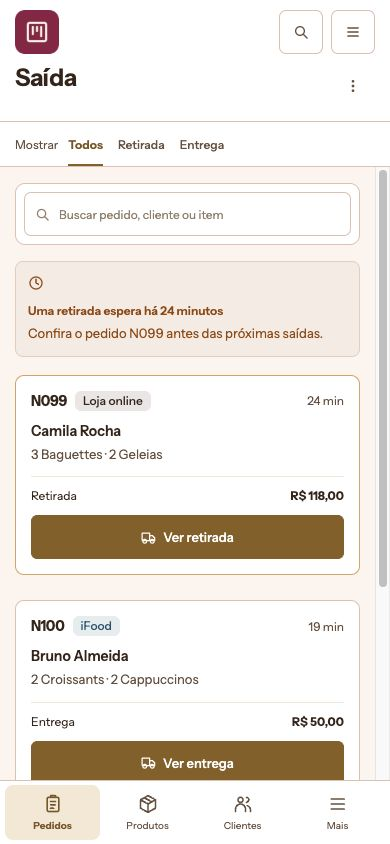
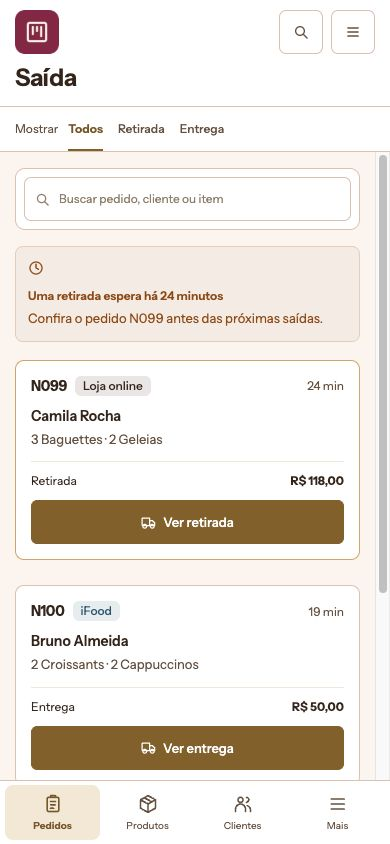
docs: refine preview action scopes mobile space and scrolling tabs

diff --git a/docs/previews/navigation-2026-10-29/preview.js b/docs/previews/navigation-2026-10-29/preview.js
@@ -139,7 +139,7 @@ const QUICK_LINKS={
 function renderQuick(){const links=QUICK_LINKS[state.app];const outside=!links.some(item=>item.matches.includes(state.view));$('#quicknav').hidden=state.compare||state.central;$('#quicknav').innerHTML=links.map(item=>`<button data-view="${item.view}" class="${item.matches.includes(state.view)?'active':''}" ${item.matches.includes(state.view)?'aria-current="true"':''} aria-label="${item.label}">${icon(item.symbol)}<span>${item.label}</span></button>`).join('')+`<button data-action="drawer" class="${outside?'active':''}" aria-label="Mais assuntos">${icon('menu')}<span>Mais</span></button>`;}
 
 function renderCentral(){const items=[['gestor','Gestor','Pedidos, produtos, clientes e operação','orders'],['compras','Compras','Reposição, recebimentos e estoque','cart']];$('#central').innerHTML=`<header class="central-head"><span class="central-mark">s</span><div><p class="section-label">Shopman · Loja exemplo</p><h1>Central de apps</h1><p>Olá, Maria. Por onde vamos continuar?</p></div><button class="button" data-action="resume">${icon('left')}Voltar a ${applications[state.app].label}</button></header><div class="central-body"><section class="panel"><div class="panel-head"><div><h2>Precisa de você</h2><p>Abra a tarefa no contexto certo.</p></div>${tag('2 tarefas','amber')}</div><div class="list-row"><span class="list-icon">${icon('truck')}</span><div><strong>A retirada N099 está esperando</strong><small>Gestor · Saída dos pedidos</small></div><button class="text-link end" data-action="jump:gestor:exit">Ver saída ${icon('arrow')}</button></div><div class="list-row"><span class="list-icon">${icon('warning')}</span><div><strong>Uma diferença na nota 004821</strong><small>Compras · Conferência de recebimento</small></div><button class="text-link end" data-action="jump:compras:divergences">Conferir ${icon('arrow')}</button></div></section><h2 class="central-section">Seus apps</h2><div class="central-apps">${items.map(a=>`<button class="central-app-card" data-app="${a[0]}"><span class="list-icon">${icon(a[3])}</span><strong>${a[1]}</strong><p>${a[2]}</p><span class="text-link">Continuar de onde parou ${icon('arrow')}</span></button>`).join('')}</div><p class="subtle">Esta rodada permite explorar Gestor e Compras. Os demais apps continuam fora da prévia.</p></div>`;}
-function crossApp(app,view,query,label,dialog){state.trail={app:state.app,view:state.view,search:state.search,label,dialog};if($('#detail').open)$('#detail').close();state.lastViews[state.app]=state.view;state.app=app;route(view);state.search=query;renderContent();renderHead();}
+function crossApp(app,view,query,label,dialog){rememberDestination();state.trail={app:state.app,view:state.view,search:state.search,label,dialog};if($('#detail').open)$('#detail').close();state.lastViews[state.app]=state.view;state.app=app;route(view,true,false);state.search=query;renderContent();renderHead();}
 function currentGroup(){return applications[state.app].groups.find(g=>g.children.some(c=>c[0]===state.view));}
 function href(overrides={}){
   const next={toolsFixed:state.toolsFixed,pageMenu:state.pageMenu,compareTools:state.compareTools,compareDevice:state.compareDevice,compact:state.compact,hidden:state.hidden,secondary:state.secondary,adaptive:state.adaptive,display:state.display,density:state.density,app:state.app,variant:state.variant,view:state.view,compare:state.compare,clean:state.clean,embedded:state.embedded,central:state.central,local:state.localPlacement,quick:state.desktopQuick,dock:state.desktopDock,...overrides};
@@ -151,13 +151,17 @@ function href(overrides={}){
   if(next.clean)q.set('clean','1');if(next.compare)q.set('compare','1');if(next.embedded)q.set('embedded','1');if(next.central)q.set('screen','central');
   return `?${q}`;
 }
-function route(view, notify=true){
+const destinationStates=new Map();
+const destinationFields=['search','filter','page','collection','sort','display','density'];
+function rememberDestination(){destinationStates.set(state.app+':'+state.view,{...Object.fromEntries(destinationFields.map(k=>[k,state[k]])),scroll:$('#content').scrollTop});}
+function route(view, notify=true, remember=true){
+  if(remember)rememberDestination();
   $('#toast').hidden=true;
   if(!applications[state.app].groups.some(g=>g.children.some(c=>c[0]===view)))return;
-  state.central=false;state.view=view;state.search='';state.filter='all';state.page=1;state.drawer=false;state.drawerGroup=null;state.lastViews[state.app]=view;
+  state.central=false;state.view=view;const saved=destinationStates.get(state.app+':'+view);state.search='';state.filter='all';state.page=1;if(saved)destinationFields.forEach(k=>state[k]=saved[k]);state.drawer=false;state.drawerGroup=null;state.lastViews[state.app]=view;
   state.closed=new Set(applications[state.app].groups.filter(g=>g.id!==currentGroup().id).map(g=>g.id));
   if(state.compare&&$$('#comparison iframe').length){$('#compare-destination').value=view;$$('#comparison iframe').forEach(f=>f.contentWindow.postMessage({type:'shopman-preview-set-route',view},location.origin));history.replaceState(null,'',href());return;}
-  render();history[notify?'pushState':'replaceState'](null,'',href());
+  render();$('#content').scrollTop=saved?.scroll||0;history[notify?'pushState':'replaceState'](null,'',href());
   if(state.embedded&&notify)parent.postMessage({type:'shopman-preview-route',app:state.app,view:state.view},location.origin);
 }
 function toast(message,tone='success'){
@@ -216,7 +220,7 @@ function renderSupportBars(){
   if(['receiving','divergences'].includes(state.view))filters=filterButton('Todos os itens','all')+filterButton('Pendentes','pending')+filterButton('Conferidos','checked');
   if(state.view==='materials')filters=filterButton('Todos os insumos','all')+filterButton('Reposição urgente','urgent');
   const recuts=filters?`<div class="local-controls"><span class="local-label">Mostrar</span><div class="local-options" role="group" aria-label="Recorte do conteúdo">${filters}</div></div>`:'';
-  top.innerHTML=state.localPlacement==='top'?recuts:'';top.hidden=!top.innerHTML;
+  top.innerHTML=state.localPlacement==='top'?recuts:'';top.hidden=!top.innerHTML;requestAnimationFrame(()=>{const active=$('[aria-pressed=true]',top);if(active)active.scrollIntoView({block:'nearest',inline:'nearest',behavior:'instant'});});
   let summary='';
   if(['catalog','channel-catalog'].includes(state.view)){
     const list=catalogList();
@@ -239,9 +243,9 @@ function renderHead(){
   const group=currentGroup(),app=applications[state.app],info=viewInfo[state.view];
   const secondaryControl=state.variant==='double'&&group.children.length>1?`<button class="pill-button desktop-control" data-action="secondary" aria-label="${state.secondary?'Recolher':'Mostrar'} opções de ${group.label}">${icon('panel')}${state.secondary?'Recolher opções':`Opções de ${group.label}`}</button>`:'';
   if(state.adaptive){
-    const hasOptions=(pageActions()&&!pageActions().includes('gold'))||FLOW_CATALOG.some(f=>f.app===state.app&&f.view===state.view);
+    const hasOptions=(pageActions()&&!pageActions().includes('gold'))||Boolean(pageFlowOptions());
     const options=hasOptions?`<button class="icon-button mobile-page-options page-flow-options" data-action="page-options" aria-label="Mais opções da página" aria-haspopup="dialog">${icon('dots')}</button>`:'';
-    $('#pagehead').innerHTML=`<div class="head-top suite-header"><button class="icon-button current-app-home" data-action="central" aria-label="${app.label}: voltar à Central de apps" title="${app.label}: Central de apps">${appMark(state.app)}</button><button class="button desktop-control navigation-manager" data-action="nav-controls" aria-label="Ajustar menus laterais" aria-haspopup="dialog">${icon('panel')}Menus laterais</button><div class="head-spacer"></div><button class="icon-button" data-action="search-suite" aria-label="Buscar destino na suíte">${icon('search')}</button><button class="icon-button mobile-menu" data-action="drawer" aria-label="Abrir navegação">${icon('menu')}</button>${state.pageMenu==='header'?options:''}</div><div class="heading-row"><div class="page-title-group"><h1>${info[0]}</h1></div><div class="page-actions">${pageActions()}${desktopTaskAction()}</div>${state.pageMenu==='title'?options:''}</div>${state.trail?`<div class="return-context"><button data-action="return-context">${icon('left')}Voltar a ${esc(state.trail.label)}</button></div>`:''}`;return;
+    $('#pagehead').innerHTML=`<div class="head-top suite-header"><button class="icon-button current-app-home" data-action="central" aria-label="${app.label}: voltar à Central de apps" title="${app.label}: Central de apps">${appMark(state.app)}</button><button class="button desktop-control navigation-manager" data-action="nav-controls" aria-label="Ajustar menus laterais" aria-haspopup="dialog">${icon('panel')}Menus laterais</button><div class="head-spacer"></div><button class="icon-button" data-action="search-suite" aria-label="Buscar páginas e apps">${icon('search')}</button><button class="icon-button mobile-menu" data-action="drawer" aria-label="Abrir navegação">${icon('menu')}</button>${state.pageMenu==='header'?options:''}</div><div class="heading-row"><div class="page-title-group"><h1>${info[0]}</h1></div><div class="page-actions">${pageActions()}${desktopTaskAction()}</div>${state.pageMenu==='title'?options:''}</div>${state.trail?`<div class="return-context"><button data-action="return-context">${icon('left')}Voltar a ${esc(state.trail.label)}</button></div>`:''}`;return;
   }
   $('#pagehead').innerHTML=`<div class="head-top"><button class="icon-button mobile-menu" data-action="drawer" aria-label="Abrir navegação">${icon('menu')}</button><button class="icon-button desktop-control" data-action="compact" aria-label="${state.compact?'Expandir':'Compactar'} barra principal">${icon('panel')}</button><button class="app-switch" data-action="apps" aria-label="${app.label}: trocar app ou voltar à Central">${icon(app.symbol)}<span>${app.label}</span>${icon('down')}</button><div class="breadcrumb"><span class="desktop-breadcrumb">${app.label}</span>${icon('arrow')}<span>${group.label}</span>${group.children.length>1?icon('arrow')+`<span>${group.children.find(c=>c[0]===state.view)[1]}</span>`:''}</div>${group.children.length>1?`<div class="context-switch"><button class="button" data-action="context-mobile" aria-label="Opções de ${group.label}"><span>${group.label}</span>${icon('down')}</button></div>`:''}<div class="head-spacer"></div><div class="head-utility">${secondaryControl}<button class="icon-button desktop-control" data-action="hide" aria-label="${state.hidden?'Mostrar':'Ocultar'} barra principal">${icon('menu')}</button><button class="icon-button" data-action="search-suite" aria-label="Buscar na suíte">${icon('search')}</button></div></div><div class="heading-row"><div><h1>${info[0]}</h1><p>${info[1]}</p></div><div class="page-actions">${pageActions()}${desktopTaskAction()}</div></div>${state.trail?`<div class="return-context"><button data-action="return-context">${icon('left')}Voltar a ${esc(state.trail.label)}</button><span>Contexto de origem preservado</span></div>`:''}`;
 }
@@ -290,7 +294,7 @@ function receiptContent(divergences=false){
   const list=receipt.filter(r=>(!divergences||r.expected!==r.received)&&matching(r.name+' '+r.sku)&&(state.filter==='all'||state.filter==='pending'&&!r.resolved||state.filter==='checked'&&r.resolved));
   const rows=list.map(r=>`<tr><td>${record(r.name,r.sku,'box','receipt-item:'+r.id)}</td><td>${r.unit}</td><td class="numeric">${r.expected}</td><td class="numeric">${r.received}</td><td>${tag(r.expected===r.received?'Conferido':r.resolved?'Diferença resolvida':`Faltam ${r.expected-r.received} ${r.unit}`,r.expected===r.received?'green':r.resolved?'blue':'amber')}</td><td>${button(r.resolved?'Ver item':'Resolver diferença','receipt-item:'+r.id,'arrow','small')}</td></tr>`).join('');
   const total=receipt.reduce((s,r)=>s+r.received*r.cost,0);
-  return `<div class="receipt-summary"><span class="list-icon">${icon('file')}</span><div><h2>Nota 004821</h2><p>Distribuidora Aurora · Recebida hoje, às 13h40</p></div><div class="end">${tag(pending?'Conferência em aberto':'Conferência concluída',pending?'amber':'green',true)}</div></div>${pending?`<div class="banner">${icon('warning')}<div><strong>Manteiga: faltam 2 kg</strong><p>Na nota: 10 kg. Recebido: 8 kg.</p></div></div>`:''}<div class="split"><div><div class="toolbar">${search('Buscar item nesta nota')}${divergences?button('Ver todos os itens','receiving-all','file','small'):button('Ver divergências','receiving-divergences','warning','small')}</div><div class="panel">${table(['Insumo','Unidade de compra','Na nota','Recebido','Conferência',''],rows,divergences?'Divergências da nota':'Itens da nota de recebimento')}</div>${list.some(r=>r.id==='farinha')?'<p class="subtle">Farinha: cada saco de 25 kg recebido representa 25 kg no estoque.</p>':''}</div><aside class="panel summary-box"><h2>Resumo da entrada</h2><div class="fact"><span>Itens na nota</span><strong>3</strong></div><div class="fact"><span>Diferenças pendentes</span><strong>${pending}</strong></div><div class="fact total"><span>Valor recebido</span><strong>${money(total)}</strong></div>${pending?'<p class="subtle">Resolva a diferença antes de confirmar.</p>':''}<p class="subtle">A entrada é confirmada depois da conferência. A nota permanece disponível para consulta.</p></aside></div>`;
+  return `<div class="receipt-summary"><span class="list-icon">${icon('file')}</span><div><h2>Nota 004821</h2><p>Distribuidora Aurora · Hoje, 13h40</p></div><div class="end">${tag(pending?'Conferência em aberto':'Conferência concluída',pending?'amber':'green',true)}</div></div>${pending?`<div class="banner">${icon('warning')}<div><strong>Manteiga: faltam 2 kg</strong><p>Nota: 10 kg · Recebido: 8 kg</p></div></div>`:''}<div class="split"><div><div class="toolbar">${search('Buscar item nesta nota')}</div><div class="panel">${table(['Insumo','Unidade de compra','Na nota','Recebido','Conferência',''],rows,divergences?'Divergências da nota':'Itens da nota de recebimento')}</div>${list.some(r=>r.id==='farinha')?'<p class="subtle">Farinha: cada saco de 25 kg recebido representa 25 kg no estoque.</p>':''}</div><aside class="panel summary-box"><h2>Resumo da entrada</h2><div class="fact"><span>Itens na nota</span><strong>3</strong></div><div class="fact"><span>Diferenças pendentes</span><strong>${pending}</strong></div><div class="fact total"><span>Valor recebido</span><strong>${money(total)}</strong></div>${pending?'<p class="subtle">Resolva a diferença antes de confirmar.</p>':''}<p class="subtle">A entrada é confirmada depois da conferência. A nota permanece disponível para consulta.</p></aside></div>`;
 }
 function materialsContent(costs=false){
   const list=materials.filter(m=>matching(m.name+' '+m.id+' '+m.supplier)&&(state.filter!=='urgent'||m.urgent));
@@ -419,8 +423,8 @@ function act(action){
     case 'compare':state.compare=!state.compare;state.embedded=false;history.replaceState(null,'',href());render();break;
     case 'context-mobile':state.drawer=true;state.drawerGroup=currentGroup().id;renderNavigation();$('a,button',$('#primary'))?.focus();break;
     case 'drawer-back':state.drawerGroup=null;renderNavigation();break;
-    case 'central':if($('#detail').open)$('#detail').close();state.drawer=false;state.central=true;state.compare=false;history.pushState(null,'',href());render();break;
-    case 'resume':state.central=false;history.pushState(null,'',href());render();break;
+    case 'central':rememberDestination();if($('#detail').open)$('#detail').close();state.drawer=false;state.central=true;state.compare=false;history.pushState(null,'',href());render();break;
+    case 'resume':{state.central=false;history.pushState(null,'',href());render();$('#content').scrollTop=destinationStates.get(state.app+':'+state.view)?.scroll||0;break;}
     case 'return-context':{const t=state.trail;state.trail=null;state.app=t.app;route(t.view);state.search=t.search;renderContent();if(t.dialog)act(t.dialog);break;}
     case 'cross-product':crossApp('compras','materials','GEL','Produtos · Geleia de frutas vermelhas','product:GEL');break;
     case 'cross-material':crossApp('gestor','catalog','GEL','Insumos · Geleia de frutas vermelhas','material:GEL');break;
@@ -433,9 +437,9 @@ function act(action){
     case 'apps':openDialog('Central e apps',`<p>Abra outro app ou volte à Central. O último destino de cada app fica preservado nesta sessão.</p><div class="stack">${button('Central de apps','central','grid')}${button('Gestor · '+viewInfo[state.lastViews.gestor][0],'switch:gestor','orders')}${button('Compras · '+viewInfo[state.lastViews.compras][0],'switch:compras','cart')}</div>${previewNote}`);break;
     case 'switch':$('#detail').close();changeApp(id);break;
     case 'alerts':openDialog('O que pede atenção',`<div class="stack"><button class="button" data-action="jump:gestor:exit">Retirada N099 esperando há 24 minutos ${icon('arrow')}</button><button class="button" data-action="jump:compras:divergences">Diferença no recebimento da nota 004821 ${icon('arrow')}</button><button class="button" data-action="jump:compras:replenishment">Farinha para menos de um dia ${icon('arrow')}</button></div>${previewNote}`);break;
-    case 'jump':if($('#detail').open)$('#detail').close();state.lastViews[state.app]=state.view;state.app=parts[0];route(parts[1]);break;
-    case 'search-suite':openDialog('Buscar no Shopman',`<label class="suite-search-field">${icon('search')}<input id="suite-search" type="search" aria-label="Buscar página ou assunto" placeholder="Página, assunto ou app" autocomplete="off"></label><div id="suite-results">${Object.entries(applications).map(([appId,app])=>`<section class="suite-result-group"><h3>${app.label}</h3>${app.groups.flatMap(g=>g.children.map(c=>`<button class="suite-result" data-action="jump:${appId}:${c[0]}"><span class="suite-result-icon">${icon(c[2])}</span><span><strong>${c[1]}</strong><small>${g.label}</small></span>${icon('arrow')}</button>`)).join('')}</section>`).join('')}</div><p id="suite-empty" class="search-empty" hidden>Nenhuma página encontrada. Tente outro assunto.</p>`,'','search');$('#suite-search').focus();break;
-    case 'page-options':openOptions(pageActions()+pageFlowOptions());break;
+    case 'jump':rememberDestination();if($('#detail').open)$('#detail').close();state.lastViews[state.app]=state.view;state.app=parts[0];route(parts[1],true,false);break;
+    case 'search-suite':openDialog('Buscar páginas e apps',`<label class="suite-search-field">${icon('search')}<input id="suite-search" type="search" aria-label="Buscar página ou assunto" placeholder="Página, assunto ou app" autocomplete="off"></label><div id="suite-results">${Object.entries(applications).map(([appId,app])=>`<section class="suite-result-group"><h3>${app.label}</h3>${app.groups.flatMap(g=>g.children.map(c=>`<button class="suite-result" data-action="jump:${appId}:${c[0]}"><span class="suite-result-icon">${icon(c[2])}</span><span><strong>${c[1]}</strong><small>${g.label}</small></span>${icon('arrow')}</button>`)).join('')}</section>`).join('')}</div><p id="suite-empty" class="search-empty" hidden>Nenhuma página encontrada. Tente outro assunto.</p>`,'','search');$('#suite-search').focus();break;
+    case 'page-options':activeFlowContext={};openOptions((pageActions().includes('gold')?'':pageActions())+pageFlowOptions());break;
     case 'display':state.display=id;history.replaceState(null,'',href());renderContent();break;
     case 'density':state.density=id;$('#options-popover').hidePopover();history.replaceState(null,'',href());renderContent();break;
     case 'list-options':openOptions(`${state.view==='catalog'?`<div class="mobile-presentation-options"><span class="option-heading">Visualização</span><div class="density-options" role="group" aria-label="Visualização do catálogo"><button data-action="display:list" aria-pressed="${state.display==='list'}">Lista ${state.display==='list'?'✓':''}</button><button data-action="display:grid" aria-pressed="${state.display==='grid'}">Grade ${state.display==='grid'?'✓':''}</button></div><hr></div>`:''}<span class="option-heading">Densidade da visualização</span><div class="density-options" role="group" aria-label="Densidade da visualização"><button data-action="density:comfortable" aria-pressed="${state.density==='comfortable'}">Confortável ${state.density==='comfortable'?'✓':''}</button><button data-action="density:compact" aria-pressed="${state.density==='compact'}">Compacta ${state.density==='compact'?'✓':''}</button></div><hr>${button('Editar preços no tabelão','catalog-grid','grid')}`);break;
@@ -475,8 +479,8 @@ function act(action){
     case 'criteria':openDialog('Por que repor agora?',`<p>As sugestões consideram consumo previsto, saldo disponível, prazo de entrega e margem de segurança.</p><p>A prévia mostra esses motivos sem criar novas regras de compra.</p>${previewNote}`);break;
     case 'receiving-all':route('receiving');break;
     case 'receiving-divergences':route('divergences');break;
-    case 'receipt-item':{const r=receipt.find(x=>x.id===id);openDialog(r.name,`<div class="fact"><span>Na nota</span><strong>${r.expected} ${r.unit}</strong></div><div class="fact"><span>Recebido</span><strong>${r.received} ${r.unit}</strong></div>${r.expected!==r.received?`<div class="banner">${icon('warning')}<div><strong>Faltam ${r.expected-r.received} ${r.unit}</strong><p>Confirme o que aconteceu antes de continuar.</p></div></div><label class="field">Decisão da conferência<select id="receipt-decision" class="button"><option value="partial">Receber ${r.received} ${r.unit} e registrar a falta</option><option value="correct">Corrigir a contagem para ${r.expected} ${r.unit}</option></select></label>`:'<p>A quantidade recebida corresponde à nota.</p>'}${previewNote}`,button('Voltar à conferência','close')+(r.expected!==r.received?button('Aplicar decisão na prévia','resolve:'+r.id,'check','gold'):''));break;}
-    case 'resolve':{const r=receipt.find(x=>x.id===id);if($('#receipt-decision').value==='correct')r.received=r.expected;r.resolved=true;$('#detail').close();renderContent();renderHead();toast('Diferença resolvida somente nesta prévia.');break;}
+    case 'receipt-item':{const r=receipt.find(x=>x.id===id);activeFlowContext={id:r.id,name:r.name};openDialog(r.name,`<div class="fact"><span>Na nota</span><strong>${r.expected} ${r.unit}</strong></div><div class="fact"><span>Recebido</span><strong>${r.received} ${r.unit}</strong></div>${r.expected!==r.received?`<div class="banner">${icon('warning')}<div><strong>Faltam ${r.expected-r.received} ${r.unit}</strong><p>Confirme o que aconteceu antes de continuar.</p></div></div><fieldset class="decision-options"><legend>Decisão da conferência</legend><label><input type="radio" name="receipt-decision" value="partial" checked><span>Receber ${r.received} ${r.unit} e registrar a falta</span></label><label><input type="radio" name="receipt-decision" value="correct"><span>Corrigir a contagem para ${r.expected} ${r.unit}</span></label></fieldset>`:'<p>A quantidade recebida corresponde à nota.</p>'}<section class="flow-related"><h3>Este item da nota 004821</h3>${flowButtons(['receipt-exception','receipt-return'])}</section>${previewNote}`,button('Voltar à conferência','close')+(r.expected!==r.received?button('Aplicar decisão na prévia','resolve:'+r.id,'check','gold'):''));break;}
+    case 'resolve':{const r=receipt.find(x=>x.id===id);if($('input[name=receipt-decision]:checked').value==='correct')r.received=r.expected;r.resolved=true;$('#detail').close();renderContent();renderHead();toast('Diferença resolvida somente nesta prévia.');break;}
     case 'confirm-receipt':openDialog('Confirmar a entrada?',`<p>Os itens conferidos dariam entrada no estoque. Esta ação está apenas representada na prévia.</p>${previewNote}`,button('Voltar','close')+button('Simular confirmação','simulate-receipt','check','gold'));break;
     case 'simulate-receipt':$('#detail').close();toast('Entrada simulada. Nenhum estoque ou recebimento real foi alterado.');break;
     case 'scan':openDialog('Ler uma nota',`<p>O leitor ou a câmera identifica a nota no fluxo real. Aqui você pode continuar a nota fictícia já aberta.</p>${previewNote}`,button('Voltar à nota 004821','close'));break;
@@ -484,7 +488,7 @@ function act(action){
     default:toast('Esta etapa está representada para a comparação de navegação.');
   }
 }
-function changeApp(app){state.lastViews[state.app]=state.view;state.central=false;state.trail=null;state.app=app;state.view=state.lastViews[app];state.search='';state.filter='all';state.closed=new Set(applications[state.app].groups.filter(g=>!g.children.some(c=>c[0]===state.view)).map(g=>g.id));state.drawer=false;history.pushState(null,'',href());render();}
+function changeApp(app){rememberDestination();state.lastViews[state.app]=state.view;state.central=false;state.trail=null;state.app=app;state.view=state.lastViews[app];state.search='';state.filter='all';state.page=1;const saved=destinationStates.get(app+':'+state.view);if(saved)destinationFields.forEach(k=>state[k]=saved[k]);state.closed=new Set(applications[state.app].groups.filter(g=>!g.children.some(c=>c[0]===state.view)).map(g=>g.id));state.drawer=false;history.pushState(null,'',href());render();$('#content').scrollTop=saved?.scroll||0;}
 document.addEventListener('click',event=>{
   const el=event.target.closest('[data-view],[data-action],[data-app],[data-variant],[data-group-toggle],[data-filter],[data-drawer-group],[data-quick-group]');if(!el)return;
   if(el.matches('a')&&(event.metaKey||event.ctrlKey||event.shiftKey||event.altKey))return;
@@ -514,6 +518,7 @@ document.addEventListener('change',event=>{
   if(event.target.matches('[data-task]')){const id=Number(event.target.dataset.task);event.target.checked?state.done.add(id):state.done.delete(id);renderContent();}
 });
 document.addEventListener('keydown',event=>{
+  if(event.target.closest('.local-options')&&['ArrowLeft','ArrowRight','Home','End'].includes(event.key)){const nodes=$$('button',event.target.closest('.local-options'));let at=nodes.indexOf(event.target);at=event.key==='Home'?0:event.key==='End'?nodes.length-1:(at+(event.key==='ArrowRight'?1:-1)+nodes.length)%nodes.length;event.preventDefault();nodes[at].focus();nodes[at].scrollIntoView({block:'nearest',inline:'nearest'});return;}
   if(event.key==='Escape'&&$('#detail').open&&!$('#discard-dialog').open&&!$('#action-confirm').open){event.preventDefault();requestDialogClose();return;}
   if(event.target.id==='suite-search'&&['Enter','ArrowDown'].includes(event.key)){const first=$$('#suite-results button').find(b=>!b.hidden&&!b.closest('section').hidden);if(first){event.preventDefault();if(event.key==='Enter')first.click();else first.focus();}}
   if(event.key==='Escape'&&state.drawer){event.preventDefault();state.drawer=false;state.drawerGroup=null;renderNavigation();$('.mobile-menu')?.focus();}
@@ -533,7 +538,7 @@ window.addEventListener('message',event=>{
 let adaptiveMobile=mobileNavigation();
 let narrowLayout=matchMedia('(min-width:651px) and (max-width:1100px) and (orientation:landscape)').matches;
 window.addEventListener('resize',()=>{const mobile=mobileNavigation();if(state.adaptive&&mobile!==adaptiveMobile){adaptiveMobile=mobile;state.drawer=false;state.drawerGroup=null;render();}const next=matchMedia('(min-width:651px) and (max-width:1100px) and (orientation:landscape)').matches;if(next!==narrowLayout){narrowLayout=next;if(!state.compare&&!state.central){renderNavigation();renderHead();}}});
-window.addEventListener('popstate',()=>{const q=new URLSearchParams(location.search);state.app=q.get('app')==='compras'?'compras':'gestor';state.variant=q.get('variant')==='double'?'double':'single';state.view=q.get('view')||applications[state.app].home;state.adaptive=q.get('layout')==='adaptive'||!q.has('variant')||(q.get('clean')==='1'&&q.get('embedded')!=='1');state.display=q.get('display')==='grid'?'grid':'list';state.density=q.get('density')==='compact'?'compact':'comfortable';state.clean=q.get('clean')==='1';state.hidden=q.get('rail')==='hidden';state.compact=q.has('rail')?q.get('rail')==='compact':q.get('compact')==='1'||narrowLayout;state.secondary=q.get('options')!=='hidden';state.toolsFixed=q.get('tools')==='fixed';state.pageMenu=q.get('pageMenu')==='header'?'header':'title';state.compareTools=q.get('compareTools')==='1';state.compareDevice=q.get('device')==='desktop'?'desktop':'mobile';state.compare=q.get('compare')==='1'||state.compareTools;state.central=q.get('screen')==='central';state.localPlacement=q.get('local')==='bottom'?'bottom':'top';state.desktopQuick=q.get('quick')==='1';state.desktopDock=q.get('dock')==='1';state.trail=null;state.drawer=false;if(!applications[state.app].groups.some(g=>g.children.some(c=>c[0]===state.view)))state.view=applications[state.app].home;render();});
+window.addEventListener('popstate',()=>{if(!state.central)rememberDestination();const q=new URLSearchParams(location.search);state.app=q.get('app')==='compras'?'compras':'gestor';state.variant=q.get('variant')==='double'?'double':'single';state.view=q.get('view')||applications[state.app].home;state.adaptive=q.get('layout')==='adaptive'||!q.has('variant')||(q.get('clean')==='1'&&q.get('embedded')!=='1');state.display=q.get('display')==='grid'?'grid':'list';state.density=q.get('density')==='compact'?'compact':'comfortable';state.clean=q.get('clean')==='1';state.hidden=q.get('rail')==='hidden';state.compact=q.has('rail')?q.get('rail')==='compact':q.get('compact')==='1'||narrowLayout;state.secondary=q.get('options')!=='hidden';state.toolsFixed=q.get('tools')==='fixed';state.pageMenu=q.get('pageMenu')==='header'?'header':'title';state.compareTools=q.get('compareTools')==='1';state.compareDevice=q.get('device')==='desktop'?'desktop':'mobile';state.compare=q.get('compare')==='1'||state.compareTools;state.central=q.get('screen')==='central';state.localPlacement=q.get('local')==='bottom'?'bottom':'top';state.desktopQuick=q.get('quick')==='1';state.desktopDock=q.get('dock')==='1';state.trail=null;state.drawer=false;if(!applications[state.app].groups.some(g=>g.children.some(c=>c[0]===state.view)))state.view=applications[state.app].home;const saved=destinationStates.get(state.app+':'+state.view);if(saved)destinationFields.forEach(k=>state[k]=saved[k]);render();$('#content').scrollTop=saved?.scroll||0;});
 render();
 new ResizeObserver(()=>requestAnimationFrame(publishToolsMetrics)).observe($('#content'));
 

diff --git a/docs/previews/navigation-2026-10-29/flow-engine.js b/docs/previews/navigation-2026-10-29/flow-engine.js
@@ -1,7 +1,8 @@
 /* Motor de composição da prévia. Sem backend, credenciais ou persistência. */
 let activeFlow=null,activeFlowContext={},dialogBaseline='',dialogGuard=false,discardNext=null;
 function flowButtons(ids){return ids.map(id=>{const f=FLOW_CATALOG.find(x=>x.id===id);return f?`<button class="button flow-link" data-flow="${id}">${icon(f.danger?'warning':'arrow')}<span>${esc(f.title)}</span></button>`:'';}).join('');}
-function pageFlowOptions(){return `<div class="flow-menu"><span class="option-heading">Funções de ${viewInfo[state.view][0]}</span>${flowButtons(FLOW_CATALOG.filter(f=>f.app===state.app&&f.view===state.view).map(f=>f.id))}</div>`;}
+const PAGE_FLOW_IDS=new Set(['catalog-bulk','receipt-remark','receipt-voucher','csv-import','csv-export']);
+function pageFlowOptions(){const ids=FLOW_CATALOG.filter(f=>f.app===state.app&&f.view===state.view&&PAGE_FLOW_IDS.has(f.id)).map(f=>f.id);return ids.length?`<div class="flow-menu"><span class="option-heading">Ferramentas da página</span>${flowButtons(ids)}</div>`:'';}
 function formFingerprint(){return JSON.stringify(Array.from(document.querySelectorAll('#detail input,#detail textarea,#detail select')).filter(e=>e.id!=='flow-section').map(e=>[e.name||e.id,e.type==='checkbox'?e.checked:e.value]));}
 function trackDialog(){dialogGuard=['form','workspace'].includes(document.querySelector('#detail').dataset.kind);dialogBaseline=formFingerprint();}
 function requestDialogClose(next=null){
@@ -45,7 +46,7 @@ function showFlow(id,context={}){
  if(f.facts)body+=f.facts.map(([label,value])=>`<div class="fact"><span>${esc(label)}</span><strong>${esc(value)}</strong></div>`).join('');
  body+=sections.map(([title,labels],i)=>`<section data-flow-section="${i}" ${i?'hidden':''}><h3>${esc(title)}</h3>${readOnly?labels.map(label=>`<p>${esc(label)}</p>`).join(''):labels.map(label=>inferredField(label,index++)).join('')}</section>`).join('');
  if(f.fields)body+=f.fields.map(([label,type,value,required])=>flowField(label,index++,type,value,required)).join('');
- if(f.actions)body+=`<section class="flow-related"><h3>Mais funções</h3>${flowButtons(f.actions)}</section>`;
+ if(f.actions&&!context.create)body+=`<section class="flow-related"><h3>Mais funções</h3>${flowButtons(f.actions)}</section>`;
  const footer=readOnly?'':button('Cancelar','close')+`<button class="button ${f.danger?'danger':'gold'}" data-flow-save>${esc(f.confirm||'Salvar')}</button>`;
  openDialog(context.create&&['product-editor','customer-editor','material-editor','supplier-editor'].includes(id)?'Cadastrar '+(id==='product-editor'?'produto':id==='customer-editor'?'cliente':id==='material-editor'?'insumo':'fornecedor'):context.title||(id==='product-editor'&&context.id?products.find(p=>p.id===context.id)?.name:'')||(readOnly&&context.name)||f.title,body,footer,readOnly?(sections.length?'record':'detail'):sections.length?'workspace':f.fields?'form':'confirm');
  if(id==='product-editor'&&context.id){const list=catalogList(),at=list.findIndex(p=>p.id===context.id);document.querySelector('#detail .dialog-foot').insertAdjacentHTML('afterbegin',`<nav class="record-pagination" aria-label="Produtos deste recorte"><button class="icon-button" data-flow-step="-1" aria-label="Produto anterior" ${at<=0?'disabled':''}>${icon('left')}</button><span>${at+1} de ${list.length}</span><button class="icon-button" data-flow-step="1" aria-label="Próximo produto" ${at===list.length-1?'disabled':''}>${icon('arrow')}</button></nav>`);}
@@ -100,7 +101,7 @@ function renderPreviewScenario(){
  if(scenario==='error')document.querySelector('#content').innerHTML=`<div class="semantic-alert error" role="alert"><span>Não foi possível carregar os dados desta página.</span><button class="button alert-action" data-review-state="ready">Tentar novamente</button></div>`;
 }
 document.addEventListener('click',event=>{
- const flow=event.target.closest('[data-flow]');if(flow){event.preventDefault();const context=flow.dataset.taskIndex!==undefined?{taskIndex:Number(flow.dataset.taskIndex)}:activeFlowContext;const next=()=>showFlow(flow.dataset.flow,context);if(document.querySelector('#detail').open)requestDialogClose(next);else next();return;}
+ const flow=event.target.closest('[data-flow]');if(flow){event.preventDefault();const context=flow.dataset.taskIndex!==undefined?{taskIndex:Number(flow.dataset.taskIndex)}:flow.closest('#options-popover')?{}:activeFlowContext;const next=()=>showFlow(flow.dataset.flow,context);if(document.querySelector('#detail').open)requestDialogClose(next);else next();return;}
  if(event.target.closest('[data-flow-save]')){commitFlow();return;}
  const step=event.target.closest('[data-flow-step]');if(step){const list=catalogList(),index=list.findIndex(p=>p.id===activeFlowContext.id),p=list[index+Number(step.dataset.flowStep)];if(p)requestDialogClose(()=>showFlow('product-editor',{id:p.id}));return;}
  if(event.target.closest('#keep-editing')){document.querySelector('#discard-dialog').close();return;}

diff --git a/docs/previews/navigation-2026-10-29/preview.css b/docs/previews/navigation-2026-10-29/preview.css
@@ -210,3 +210,14 @@ svg{stroke-width:2}.tag{border-radius:6px;line-height:16px}
 
 /* Opções da página encerram a linha do título, após a ação principal. */
 .adaptive .heading-row{gap:10px}.adaptive .heading-row>.page-flow-options{flex-shrink:0;margin-left:0}.adaptive .heading-row .page-actions:empty{display:none}
+
+/* Tabs: trilho horizontal, alvos estáveis e sem quebra, como as coleções da loja. */
+.local-controls{min-width:0;overflow:hidden}.local-label{flex-shrink:0}.local-options{display:flex!important;flex-wrap:nowrap!important;min-width:0;overflow-x:auto;overscroll-behavior-x:contain;scrollbar-width:thin;scroll-behavior:smooth;touch-action:pan-x pan-y}.local-options>.filter-chip{flex:0 0 auto;white-space:nowrap}.local-options>.filter-chip:focus-visible{outline:2px solid var(--gold);outline-offset:-3px}
+.decision-options{border:0;padding:0;margin:16px 0;min-width:0}.decision-options legend{font-size:14px;font-weight:600;margin-bottom:10px}.decision-options label{display:flex;align-items:flex-start;gap:10px;border:1px solid var(--line);border-radius:6px;padding:12px;margin-bottom:10px;font-size:14px;line-height:1.5}.decision-options input{width:20px;height:20px;flex-shrink:0;accent-color:var(--gold);margin:0}.decision-options label:has(input:checked){background:var(--paper);border-color:var(--gold)}
+@media(min-width:901px), (min-width:651px) and (orientation:landscape){.adaptive .secondary{width:190px}.secondary-note{font-size:12px}}
+@media(max-width:650px), (max-width:900px) and (orientation:portrait){
+ .application:is([data-view=receiving],[data-view=divergences]) .receipt-summary{padding:12px;gap:10px;margin-bottom:12px;display:grid;grid-template-columns:34px minmax(0,1fr)}
+ .application:is([data-view=receiving],[data-view=divergences]) .receipt-summary>.list-icon{width:34px;height:34px}.application:is([data-view=receiving],[data-view=divergences]) .receipt-summary>.end{grid-column:2;margin:0}.application:is([data-view=receiving],[data-view=divergences]) .banner{padding:10px 12px;margin-bottom:12px}.application:is([data-view=receiving],[data-view=divergences]) .banner p{margin-top:2px}
+ #action-dock .floating-surface{display:flex;align-items:center;gap:10px;padding:10px 12px}#action-dock .floating-context{display:flex;flex-direction:column;align-items:flex-start;gap:3px;min-width:0;font-size:11px}#action-dock .floating-context strong{font-size:12px}#action-dock .floating-surface>.button{width:auto;min-height:44px;flex-shrink:0;margin-left:auto;font-size:12px;padding:8px}#action-dock .floating-surface:has(#dock-reason){flex-wrap:wrap}#dock-reason{width:100%;margin:0}
+}
+@media(prefers-reduced-motion:reduce){.local-options{scroll-behavior:auto}}

diff --git a/docs/previews/navigation-2026-10-29/verification.md b/docs/previews/navigation-2026-10-29/verification.md
@@ -301,3 +301,13 @@ Evidências: `captures/tools-fixed-vs-scroll-mobile.jpg` e `captures/tools-scrol
 Busca em card rolável é o padrão mobile de Gestor e Compras. Menu da página na extremidade direita da linha do título, depois da ação principal. Variante de cabeçalho permanece apenas como experimento explícito (`pageMenu=header`).
 
 Revisadas as 20 telas em 390 e 320 px: nenhum transbordamento horizontal nos cabeçalhos ou cards de ferramentas; nenhuma ferramenta no dock fixo nos destinos padrão; opções da página no último lugar da linha quando disponíveis. Evidência em `toolbar-consistency-evidence.json`. Galeria mobile das 20 telas atualizada. Telas sem busca não recebem card vazio. Comparação histórica da faixa fixa permanece acessível como experimento, sem alterar o padrão aprovado.
+
+## Refinamento após revisão adversarial
+
+Somente prévias. Menus gerais agora contêm ferramentas de página (tabelão, importação/exportação e documentos gerais da nota conforme destino); ações de registro ficam no contexto dos registros. Cadastro novo não mostra funções de registro salvo. Inventário completo de exemplos continua no índice de revisão, sem ser tratado como menu de produto.
+
+Decisão de recebimento usa rádios com texto integral em 320 px. Resumo da nota e ação flutuante compactados; a superfície da ação mede cerca de 64 px no exemplo 390 px. Removido atalho redundante de divergências. Segunda lateral desktop reduzida para 190 px. Busca global explicitamente nomeada “Buscar páginas e apps”. Busca, filtro, página e posição têm memória local por destino durante a sessão da prévia; não há persistência em servidor.
+
+Tabs mantêm a aparência aprovada, com overflow horizontal nativo, sem quebra, alvos estáveis, tab ativa visível, navegação por setas/Home/End e respeito a movimento reduzido. Referência consultada: trilho de coleções de `surfaces/storefront-nuxt/app/pages/menu.vue`. Nenhum arquivo do Storefront alterado.
+
+Verificação: 20 telas em 390 px e 20 em desktop de 1024 px, sem overflow no cabeçalho/ferramentas. Fluxos verificados: escopo do menu de catálogo, novo produto, erro em seção diferente, proteção de rascunho, retorno à busca Geleia e decisão de recebimento em 320 px. Evidências em `refinement-evidence.json` e galeria mobile atualizada. Teclado virtual real e zoom do sistema permanecem validações em dispositivo, não comprovadas por viewport simulado. Sem alteração de Core, apps, kit ou deploy.
